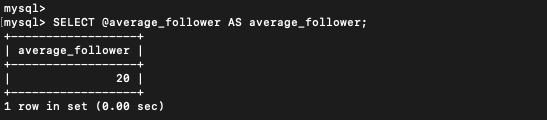
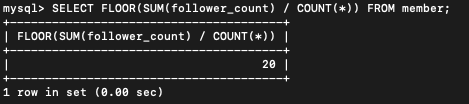
done

diff --git a/w5_MySQL/README.md b/w5_MySQL/README.md
@@ -125,11 +125,13 @@ SELECT SUM(follower_count) FROM member;
 -- 4.3. the average of follower_count of all the rows
 
 ```ruby
-SET @count_member := (SELECT COUNT(*) FROM member);
-SET @sum_follower := (SELECT SUM(follower_count) FROM member);
-SET @average_follower := FLOOR(@sum_follower / @count_member);
+# SET @count_member := (SELECT COUNT(*) FROM member);
+# SET @sum_follower := (SELECT SUM(follower_count) FROM member);
+# SET @average_follower := FLOOR(@sum_follower / @count_member);
 
-SELECT @average_follower AS average_follower;
+# SELECT @average_follower AS average_follower;
+
+SELECT FLOOR(SUM(follower_count) / COUNT(*)) FROM member;
 ```
 
 ![Optional Title](https://raw.githubusercontent.com/RaphaFang/RaphaFang.github.io/main/w5_MySQL/img/4.3.png)
@@ -221,9 +223,8 @@ WHERE username = 'test';
 
 ```ruby
 SELECT
-    member.username,
-    FLOOR(SUM(message.like_count) / COUNT(message.id)) AS average_like_count
-FROM member member
+    username,
+    FLOOR(SUM(like_count) / COUNT(message.id)) FROM member
 JOIN message ON member.id = message.member_id
 WHERE member.username = 'test';
 ```
@@ -235,10 +236,8 @@ WHERE member.username = 'test';
 ```ruby
 SELECT
     member.username,
-    FLOOR(SUM(message.like_count)/(COUNT(message.id))) AS average_like_count
-FROM member member
-JOIN message message ON member.id = message.member_id
-
+    FLOOR(SUM(message.like_count)/(COUNT(message.id))) FROM member
+JOIN message ON member.id = message.member_id
 GROUP BY member.username
 ORDER BY member.username;
 ```
